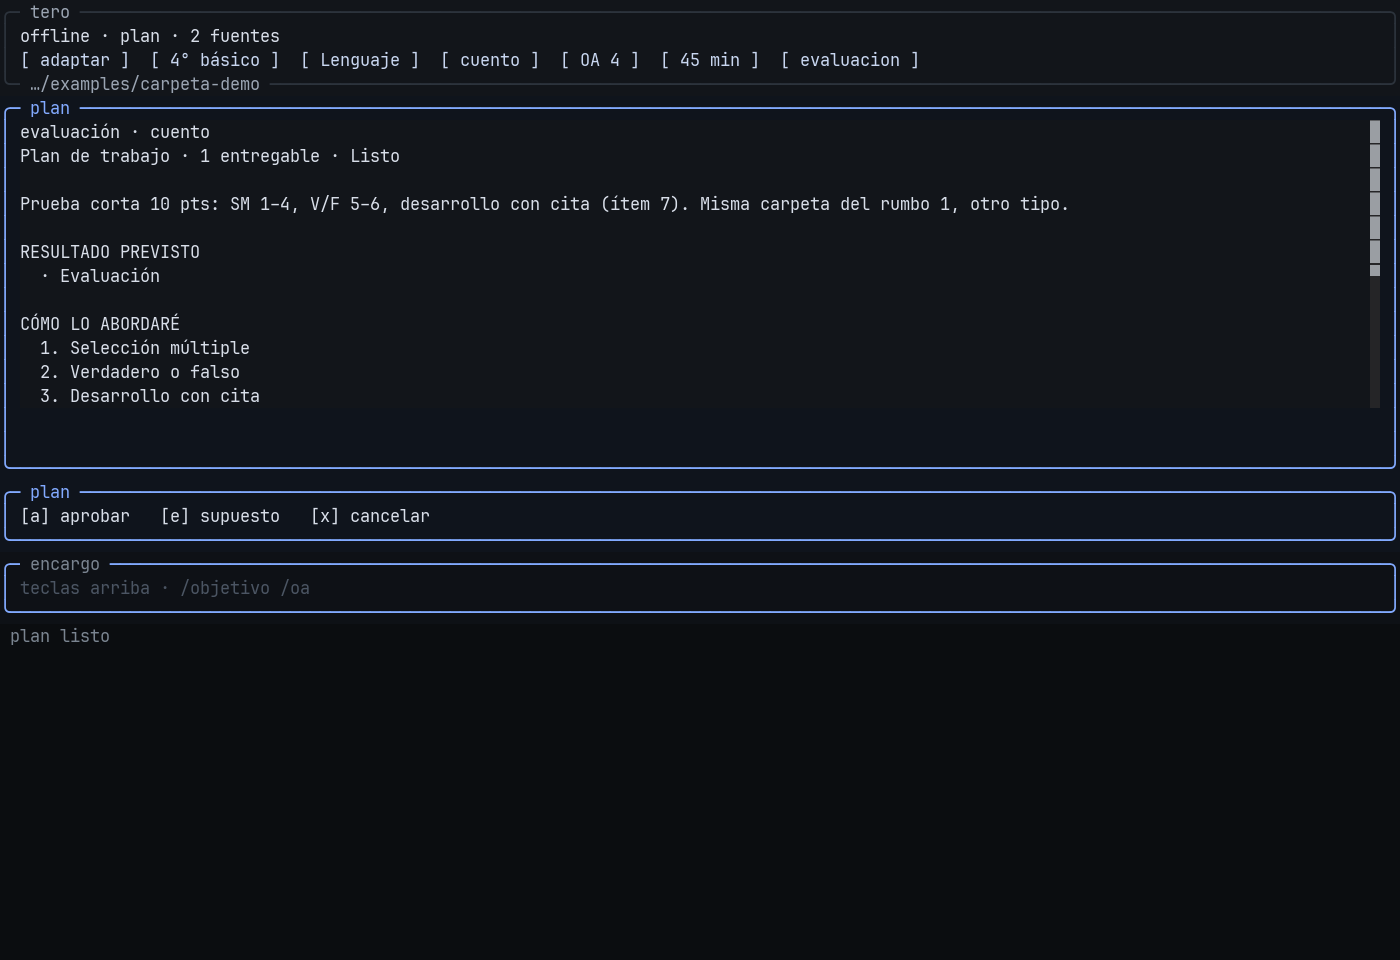
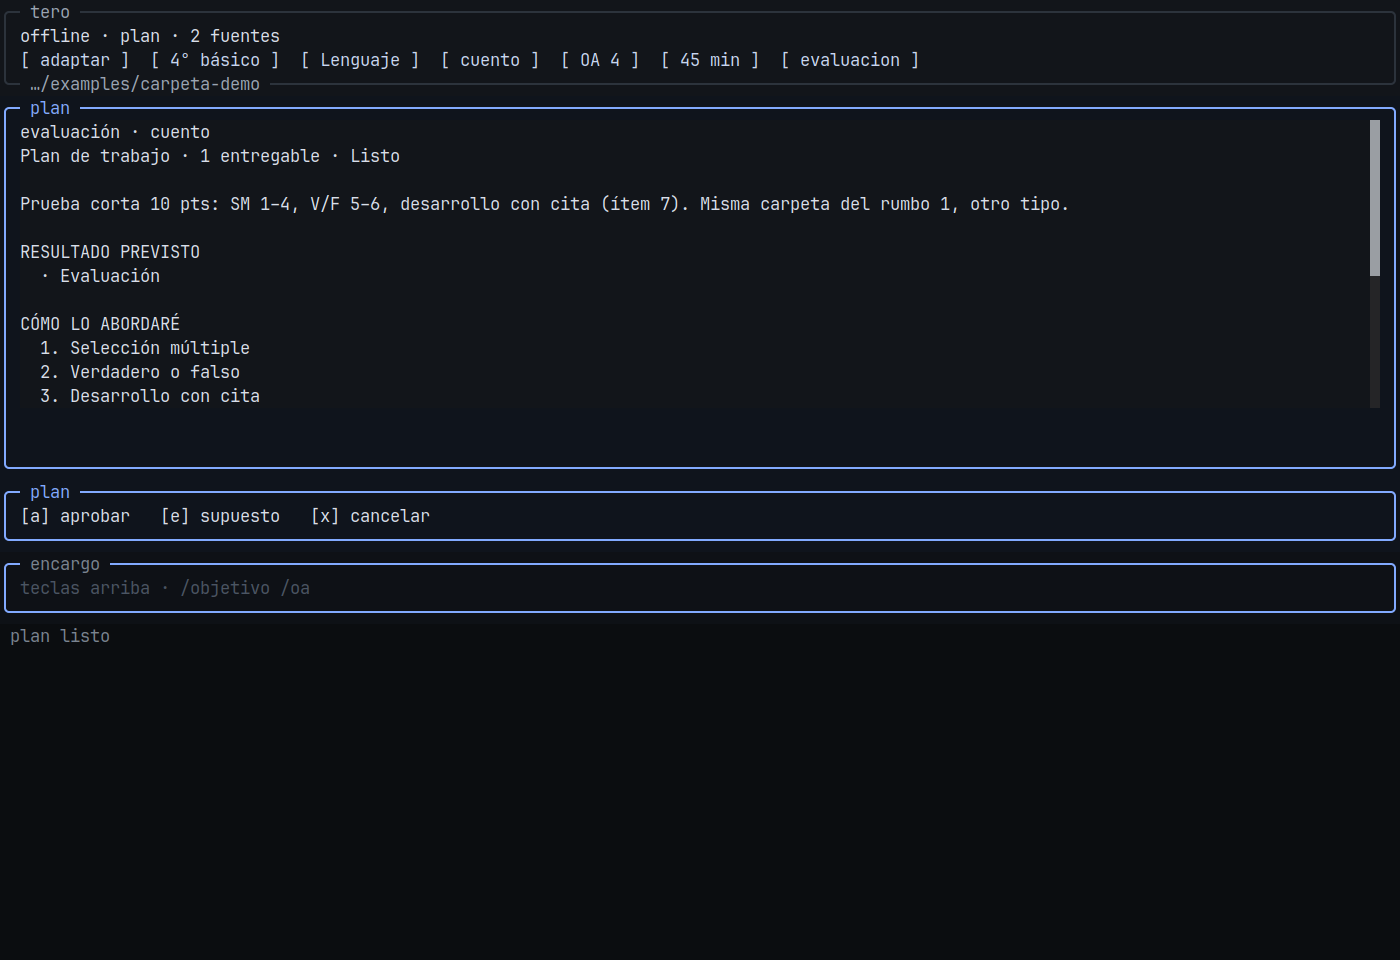
feat(tui): screenshot live OpenTUI frames from the terminal
Paint each captured state in xfce4-terminal at 140×40 JetBrains Mono 13
and crop the VTE pixels. Those PNGs match tero tui --offline, not a
PIL restyle.

diff --git a/tui/scripts/capture-frames.ts b/tui/scripts/capture-frames.ts
@@ -486,7 +486,7 @@ function frameToHtml(frame: FrameDump): string {
   <link rel="preconnect" href="https://fonts.googleapis.com"/>
   <link rel="preconnect" href="https://fonts.gstatic.com" crossorigin/>
   <link href="https://fonts.googleapis.com/css2?family=JetBrains+Mono:ital,wght@0,400;0,500;0,600;1,400&display=swap" rel="stylesheet"/>
-  <link rel="stylesheet" href="../../../styles.css?v=jb-shot"/>
+  <link rel="stylesheet" href="../../../styles.css?v=vte-shot"/>
 </head>
 <body data-offline-model="tero-offline">
   <div class="window" id="app">
@@ -499,7 +499,7 @@ function frameToHtml(frame: FrameDump): string {
       <div id="tui-grid" class="tui-grid">${rows}</div>
     </div>
   </div>
-  <script src="../../../tui-grid.js?v=jb-shot"></script>
+  <script src="../../../tui-grid.js?v=vte-shot"></script>
   <script>
     (function () {
       const host = document.getElementById("tui-host");
@@ -581,4 +581,8 @@ async function main() {
   )
 }
 
-await main()
+export { shots }
+
+if (import.meta.main) {
+  await main()
+}

diff --git a/tui/scripts/show-frame.ts b/tui/scripts/show-frame.ts
@@ -1,0 +1,30 @@
+/**
+ * Paint one captured OpenTUI state in a real terminal so we can screenshot it.
+ * Usage: bun scripts/show-frame.ts home
+ */
+import { createCliRenderer } from "@opentui/core"
+import { mountShell } from "../src/shell.ts"
+import { theme } from "../src/theme.ts"
+import { shots } from "./capture-frames.ts"
+
+const name = process.argv[2] || "home"
+const shot = shots.find((item) => item.name === name)
+if (!shot) {
+  console.error(`unknown frame: ${name}`)
+  console.error(`frames: ${shots.map((item) => item.name).join(" ")}`)
+  process.exit(1)
+}
+
+const renderer = await createCliRenderer({
+  exitOnCtrlC: true,
+  useMouse: false,
+  targetFps: 20,
+  backgroundColor: theme.bg,
+  consoleMode: "disabled",
+})
+const shell = mountShell(renderer, () => {})
+shell.sync(shot.state())
+process.stderr.write(`ready ${name} ${renderer.width}x${renderer.height}\n`)
+await new Promise<void>(() => {
+  /* hold until the screenshot script stops the process */
+})

diff --git a/tui/scripts/screenshot-frames.py b/tui/scripts/screenshot-frames.py
@@ -1,0 +1,170 @@
+#!/usr/bin/env python3
+"""Screenshot each OpenTUI frame from xfce4-terminal at 140×40, JetBrains Mono 13."""
+
+from __future__ import annotations
+
+import os
+import subprocess
+import time
+from pathlib import Path
+
+from PIL import Image
+
+DISPLAY = os.environ.get("DISPLAY", ":1")
+ROOT = Path(__file__).resolve().parents[1]
+FRAMES = ROOT.parent / "site" / "assets" / "tui" / "frames"
+BUN = os.environ.get("BUN", str(Path.home() / ".bun/bin/bun"))
+SHOW = ROOT / "scripts" / "show-frame.ts"
+CELL_W = 10
+CELL_H = 24
+COLS = 140
+ROWS = 40
+
+NAMES = [
+    "home",
+    "help",
+    "encargo",
+    "leyendo-1",
+    "plan-1",
+    "puerta-1",
+    "leyendo-2",
+    "plan-2",
+    "puerta-2",
+    "leyendo-3",
+    "plan-3",
+    "puerta-3",
+    "leyendo-4",
+    "plan-4",
+    "puerta-4",
+]
+
+
+def run(cmd: list[str], **kwargs) -> subprocess.CompletedProcess[str]:
+    env = os.environ.copy()
+    env["DISPLAY"] = DISPLAY
+    return subprocess.run(cmd, env=env, text=True, capture_output=True, **kwargs)
+
+
+def window_id(title: str) -> str | None:
+    found = run(["xdotool", "search", "--name", f"^{title}$"])
+    ids = [line.strip() for line in found.stdout.splitlines() if line.strip()]
+    return ids[-1] if ids else None
+
+
+def geometry(wid: str) -> tuple[int, int, int, int]:
+    info = run(["xwininfo", "-id", wid])
+    vals: dict[str, int] = {}
+    for line in info.stdout.splitlines():
+        if "Absolute upper-left X" in line:
+            vals["x"] = int(line.split(":")[-1])
+        elif "Absolute upper-left Y" in line:
+            vals["y"] = int(line.split(":")[-1])
+        elif line.strip().startswith("Width:"):
+            vals["w"] = int(line.split(":")[-1])
+        elif line.strip().startswith("Height:"):
+            vals["h"] = int(line.split(":")[-1])
+    return vals["x"], vals["y"], vals["w"], vals["h"]
+
+
+def grab(path: Path) -> None:
+    subprocess.run(
+        [
+            "ffmpeg",
+            "-y",
+            "-f",
+            "x11grab",
+            "-draw_mouse",
+            "0",
+            "-video_size",
+            "1920x1200",
+            "-i",
+            f"{DISPLAY}.0",
+            "-frames:v",
+            "1",
+            str(path),
+        ],
+        check=True,
+        capture_output=True,
+    )
+
+
+def crop_cells(img: Image.Image) -> Image.Image:
+    w, h = img.size
+    target_w, target_h = COLS * CELL_W, ROWS * CELL_H
+    x0 = max(0, (w - target_w) // 2)
+    y0 = max(0, (h - target_h) // 2)
+    if w >= target_w + 2 and h >= target_h + 2:
+        x0 = 1
+        y0 = 1
+    return img.crop((x0, y0, x0 + min(target_w, w - x0), y0 + min(target_h, h - y0))).resize(
+        (target_w, target_h),
+        Image.Resampling.NEAREST,
+    )
+
+
+def capture_one(name: str) -> None:
+    title = f"tero-frame-{name}"
+    env = os.environ.copy()
+    env["DISPLAY"] = DISPLAY
+    proc = subprocess.Popen(
+        [
+            "xfce4-terminal",
+            "--disable-server",
+            f"--display={DISPLAY}",
+            "--geometry=140x40",
+            "--hide-menubar",
+            "--hide-scrollbar",
+            "--hide-toolbar",
+            "--color-bg=#0b0d10",
+            "--color-text=#d8dee9",
+            "--font=JetBrains Mono 13",
+            f"--title={title}",
+            "--working-directory",
+            str(ROOT),
+            "-e",
+            f"{BUN} {SHOW} {name}",
+        ],
+        env=env,
+        stdout=subprocess.DEVNULL,
+        stderr=subprocess.DEVNULL,
+    )
+    wid = None
+    for _ in range(20):
+        time.sleep(0.25)
+        wid = window_id(title)
+        if wid:
+            break
+    if not wid:
+        proc.kill()
+        raise RuntimeError(f"no window for {title}")
+    run(["xdotool", "windowraise", wid])
+    run(["xdotool", "windowmove", wid, "0", "30"])
+    time.sleep(0.8)
+    x, y, w, h = geometry(wid)
+    desktop = Path(f"/tmp/tero-desk-{name}.png")
+    grab(desktop)
+    full = Image.open(desktop).convert("RGB")
+    term = full.crop((x, y, x + w, y + h))
+    shot = crop_cells(term)
+    dest = FRAMES / f"{name}.png"
+    shot.save(dest, format="PNG", optimize=True)
+    print(f"shot {name} win={w}x{h} png={shot.size[0]}x{shot.size[1]} {dest.stat().st_size} bytes")
+    proc.terminate()
+    try:
+        proc.wait(timeout=2)
+    except subprocess.TimeoutExpired:
+        proc.kill()
+
+
+def main() -> None:
+    for name in NAMES:
+        capture_one(name)
+        time.sleep(0.2)
+    for alias in ("plan", "puerta"):
+        src = FRAMES / f"{alias}-1.png"
+        if src.is_file():
+            (FRAMES / f"{alias}.png").write_bytes(src.read_bytes())
+
+
+if __name__ == "__main__":
+    main()

diff --git a/docs/SITIO.md b/docs/SITIO.md
@@ -10,9 +10,10 @@ puerta `s` / `n` / `b` / `c`, prompt y footer. Los colores salen de
 La primera vista **es** el home de la TUI. Un rumbo no cambia de ventana:
 solo pinta el cuerpo. Capturas auténticas (test renderer de OpenTUI) viven
 en [`site/assets/tui/frames/`](../site/assets/tui/frames/). Se regeneran
-con `cd tui && bun run capture` (JSON + PNG a 10×24 px, JetBrains Mono 13,
-el mismo tipo que `xfce4-terminal --font='JetBrains Mono 13'`). El landing
-blitea esos PNG dentro de **una** ventana (`traffic` + `tero` + `~/tero`).
+con `cd tui && bun run capture` (JSON + PNG raster) y, con display,
+`bun run capture:live` (captura xfce4-terminal 140×40, JetBrains Mono 13).
+El landing blitea esos PNG a 1× dentro de **una** ventana
+(`traffic` + `tero` + `~/tero`).
 
 El papel hiperrealista —grano de tóner, ficha fotocopiada— queda
 **solo** en las páginas que tero crea (`#archivo` / `.hoja-frame`),
@@ -38,7 +39,8 @@ de la demo es `tero-offline`. AgentCore no es el producto.
 | `site/tui-grid.js` | Encaja el PNG de la captura (o pinta celdas si falta). |
 | `site/ficha.js` | Consulta (rumbos, reloj, puerta) sobre esa grilla. |
 | `tui/scripts/capture-frames.ts` | Vuelca frames OpenTUI (`createTestRenderer` + `captureSpans`). |
-| `tui/scripts/rasterize-frames.py` | PNG JetBrains Mono, misma métrica que la TUI real. |
+| `tui/scripts/rasterize-frames.py` | PNG JetBrains si no hay display. |
+| `tui/scripts/screenshot-frames.py` | PNG del terminal real 140×40. |
 | `site/assets/tui/frames/` | Home, help, leyendo, plan y puerta por rumbo 1–4. |
 | `site/stamp.py` | En cada Pages deploy escribe el SHA en `build-info.json`. |
 | `.github/workflows/pages.yml` | Publica `site/` desde `main`. |
